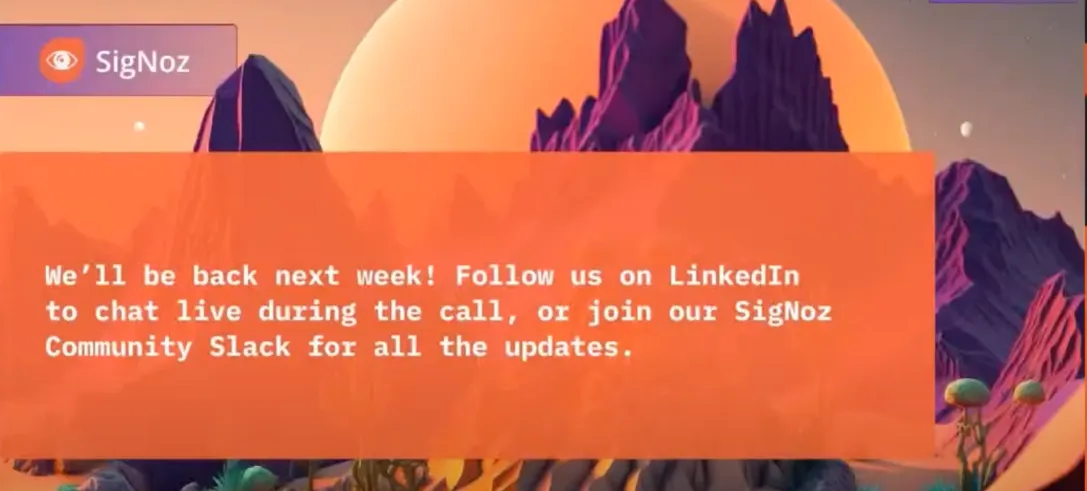
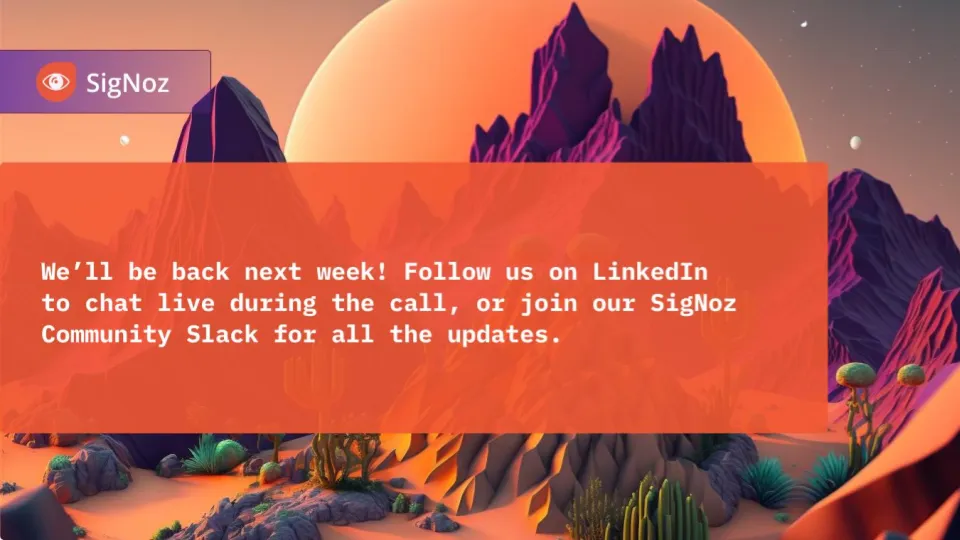
add getting-started-with-otel transcript (#1043)
* add getting-started-with-otel transcript

* add cover

diff --git a/blog/2023-08-19-getting-started-with-opentelemetry.md b/blog/2023-08-19-getting-started-with-opentelemetry.md
@@ -1,0 +1,349 @@
+---
+title: OpenTelemetry Webinars - Getting Started with OpenTelemetry
+slug: getting-started-with-opentelemetry
+date: 2023-08-19
+tags: [Talks, OpenTelemetry]
+authors: priyansh
+description: We often get asked, what's the best place to get started with OpenTelemetry - host metrics, traces, or even logs...
+image: /img/blog/2023/08/getting_started_with_opentelemetry_cover.jpg
+keywords:
+  - opentelemetry
+  - signoz
+  - observability
+---
+
+import { LiteYoutubeEmbed } from "react-lite-yt-embed";
+
+<head>
+  <link rel="canonical" href="https://signoz.io/blog/getting-started-with-opentelemetry/"/>
+</head>
+
+We often get asked, what's the best place to get started with OpenTelemetry - host metrics, traces, or even logs?
+
+Hosts <a href="https://github.com/serverless-mom" rel="nofollow">Nočnica Mellifera</a> and <a href="https://twitter.com/pranay01" rel="nofollow">Pranay</a> will talk about taking your first steps to gathering OpenTelemetry data
+
+
+Below is the recording and an edited transcript of the conversation.
+
+<!--truncate-->
+
+
+<LiteYoutubeEmbed id="Wzut0kjVeYI" mute={false} />
+
+<p>&nbsp;</p>
+
+*Find the conversation transcript below.👇*
+
+Nica: Good morning, everyone. This is the next in our OTel webinars. The topic for today is “Getting Started with OpenTelemetry”. A large audience for these webinars has been the SigNoz community, and this may be a little more basic than what the community needs.
+
+
+If you are already considering dashboards and how you store your data, this may not be the information you need. However, I am joined today by Pranay, co-founder of SigNoz. Pranay, what do you hope people will take away from this starter guide?
+
+Pranay: We decided to create this guide because we saw that many people in the SigNoz community already understand what OpenTelemetry is and have been using it. We also run an OpenTelemetry end-user group for the APAC region, and we see that many people have initial questions like, "How do I get started with OpenTelemetry? Is the log stable? How do I start sending my application tracing data?"
+
+These are the basic questions that any team needs to answer before investing in OpenTelemetry. So, we thought we would create a guide that covers some of the more basic topics so that people who are just starting out with OpenTelemetry can get an overview and a sense of where the project is headed. We will then go back to more technical questions in the future.
+
+We plan to alternate between more technical questions and more beginner-friendly ones so that people who are just starting out with OpenTelemetry have something to work with.
+
+
+Nica: It has been interesting for me to learn about the availability of beginner and advanced information for OpenTelemetry. OpenTelemetry is not intended as a beginner's tool, but rather as a tool for those who need to do distributed tracing through complex architectures. Since its inception, much of the material has started by diving deep into the topic.
+
+Speaking of more advanced topics, I wanted to answer a question that was asked in chat: "Hey, we talked about Kafka with OTel in the later webinar, when's that going to happen?" The webinar will be held next month because we are going away for our whole staff meeting. I will announce the date and time in the topic and message you directly when we are ready. We wanted to do it this week, but it turned out to require a little more research.
+
+I think I now know most of how to do it. I may or may not go and do all the work to set up a local Kafka queue to test it out, but that is a more advanced topic. I would love to talk about it, especially as it relates to sending OpenTelemetry data into a queue within your network.
+Nishant has just mentioned that the live webinar hours are not great for us, and we will be shifting those around a bit.
+
+Yes, I do want to make it possible for people from all over the world to join our webinars. I am located on the west coast of the United States, so this time slot is ideal for me. However, I may start offering an evening time slot in the future.
+
+Pranay: I believe that this webinar was primarily focused on our community in the US. We will explore options for India or the APAC region ecosystem in the future.
+
+Nica: If you are watching this webinar replay, please feel free to comment below with your questions. We will answer them as we go along. So, let's get started.
+
+So, a pretty common question that we see, especially people who are dipping into the OpenTelemetry, "What's the first thing that you should instrument withOpenTelemetry?" Now in my presentation, I have an answer to this, but I'm curious Pranay, how you would answer this question of what's the first thing you'd instrument?
+
+
+> “***A common question, especially among new DevOps engineers or SREs who want to add some observability: “What’s the first thing I should instrument with OpenTelemetry***”
+
+
+Pranay: Indeed, it depends on who is asking the question. For an application developer, the most interesting thing might be APM, or application performance monitoring. If you are writing code and want to understand whether your code is performing well or has high latency, you might start with APM or distributed tracing to see the latency of your APIs. Are your database calls or external calls taking longer than usual?
+
+However, if you are part of the platform team or DevOps team, the first thing you might want to look at is infrastructure metrics. These are the most important metrics to track, as they can tell you whether your machines are running smoothly and whether your CPU, memory, and other resources are being used efficiently.
+
+
+Configure some alerts on top of that, and so it depends really on the person who is trying to get started the OpenTelemetry. If you're a JavaScript developer, you can instrument your NodeJs application and just get started with the latency. 
+
+Nica: I concur. Indeed, there are people who are currently evaluating a full migration to OpenTelemetry. They are trying to determine whether it is better than the closed-source SaaS tool they are currently using. In this case, it may make sense to focus on the type of application performance metrics or APM that they will be getting. 
+
+It is important to answer this question early on, because if they are fundamentally unable to do their jobs without automatic instrumentation of a particular Java method, then this may be a deal-breaker for them.
+
+I think I'm going to briefly step through this just because it's kind of a basic idea of what is and isn't inside the OpenTelemetry project. 
+
+
+<figure data-zoomable align='center'>
+    <img src="/img/blog/2023/08/first_thing_otel.webp" alt=""/>
+    <figcaption><i></i></figcaption>
+</figure>
+
+<br></br>
+
+I recommend starting with infrastructure metrics if you want to understand the OpenTelemetry project. Do not start with Kubernetes by trying to spin up five namespaces that talk to each other through a synchronous data store. Instead, start with something that is easy to debug, easy to look at, and where data collection will work right off the bat.
+
+The OpenTelemetry collector is a good choice for this because it is well packaged and easy to run anywhere. It is also easy for the collector to gather basic host metrics, and the OpenTelemetry operator can grab a bunch of info metrics off of your cluster easily.
+In short, start with something simple and easy to manage, and then work your way up to more complex systems.
+
+I also appreciate these metrics because the purpose of these metrics is obvious when thinking about them. This may seem like a basic concept, but I believe it is worth discussing that, when considering something like a CPU, all of the OpenTelemetry processor steps are easy to understand.
+
+Why do we do things a certain way? Do we want to average across? Do we want to report every X number of cycles? Do we want to average across that cycle, or do we want to report each time we have a report within there? Do we want to add up that value or not?
+
+It is easy to see that we do not want to add up the amount of RAM that we are using. However, we will be able to solve some basic questions. One thing that I have seen is that even trying to make those very basic dashboards make sense and be useful in the long term is a challenge in itself.
+
+
+
+I have observed that some people have expressed concern about setting up alerts for memory usage when they upgrade their memory later. They worry that they will start receiving alerts when they are only using 50% of their memory, simply because they have allocated more memory.
+
+This should encourage you to think carefully about all the steps involved in gathering metrics and sending them out. It is worth taking the time to do this properly.
+
+<figure data-zoomable align='center'>
+    <img src="/img/blog/2023/08/send_data_otel.webp" alt=""/>
+    <figcaption><i></i></figcaption>
+</figure>
+
+<br></br>
+
+Once we have collected the data, we need to decide where to send it. This is where I would like to discuss what is and is not included in the OpenTelemetry project.
+
+I believe that even for those of us who are already using OpenTelemetry, it would be beneficial to review what is and is not included in the project. Pranay, did you have anything to add about gathering information metrics or things that people should think about on day one or day two?
+
+Pranay: Yes, I think a general piece of advice is that if you are starting to use a new project or tool, the easiest way to get started is often the right way. You can start with the basics, such as understanding what the project does. This is very easy to do, and once you have done that, you will start to see some of your data in a dashboard. This will give you more confidence.
+
+So I think what you said was very accurate, that you should start with infrastructure metrics. This is easy to do, most people know how to do it, and by playing around with it, you will learn some of the OpenTelemetry ecosystem. You will also have some success under your belt, so you can say, "Okay, I know how to configure infrastructure metrics, now let's move on to application metrics."
+
+
+Nica: I am tempted to open up the collector diagrams from our previous webinar to illustrate a point. I have seen people dive in and grab the SDK, only to realize that the SDK allows them to feed in the endpoint they are sending each metric call to directly. They then drop lines into their Java code to send the data across the wire and hard-code the URL of where they want to pick up the OpenTelemetry data. 
+
+This does not make a lot of sense. It would be much better to have a collector running within the pod, within that architecture, that would then send on the data.
+
+
+It is not necessary to send a web request every time a metric increments. It is acceptable to have blind alleys and say, "We pursued this for a little while, but it turned out not to be the right way to do it."
+
+However, I believe that this is another reason why I encourage thinking about host metrics or info metrics first. This will allow you to establish the collector and ensure that it can send data to whatever kind of data backend you want to set up. Then, when you instrument your application code, you will simply be talking to the collector that you have already set up. This is much easier.
+
+
+<figure data-zoomable align='center'>
+    <img src="/img/blog/2023/08/what_is_Otel.webp" alt=""/>
+    <figcaption><i></i></figcaption>
+</figure>
+
+<br></br>
+
+
+OpenTelemetry is a project that provides:
+- A specification for all components, including a standard protocol that defines the shape of telemetry data and semantic conventions that define the standard naming scheme for common telemetry data types. For example, the naming standard would specify whether duration is labeled in nanoseconds or microseconds.
+- APIs that define how to generate telemetry data. These APIs would allow developers to send telemetry data to the Collector.
+- A library ecosystem that implements instrumentation for common libraries and frameworks. This is critical, as it allows developers to instrument their applications without having to write their own instrumentation code.
+OpenTelemetry is not a tool or a framework. It is a project that provides the building blocks for other tools and frameworks.
+
+So, that’s better and worse in different languages I won't even say better and worse, it is more and less automatic in different frameworks, and that's usually pretty rational to how those frameworks work, right?  Java is notoriously very easy to automatically instrument because you can do it at build time and bytecode manipulation to do this kind of stuff. 
+
+And then others are more difficult.  Automatic instrumentation components that generate Telemetry data without requiring code changes. 
+
+What is a set of libraries to say, "Hey, you can just make a call right from your Ruby code or right from your Java code” to say “I want to send this metric, I want to log this line, I want to add this span to a trace." But then also want automatic instrumentation and then language SDKs implement the specification APIs and the export of telemetry data. 
+
+So these are kind of a Troika there and then The OpenTelemetry collector, a proxy that receives processes, and exports telemetry data. So a question I used to get all the time is, "Can we do this without the collector?" And the answer is, technically yes, but you're hurting me by doing this. You're causing me harm, and that's kind of what I was referring to as generally a process with no collector or with a collector. 
+
+You know,  just the SigNoz collector or just telemetry hub's collector or just the honeycomb collector, but you're sending data straight out from your code, that nobody's gonna tell you to do that. 
+
+So, it's okay for your tests on your Dev environment, and then Various other tools such as the OpenTelemetry operator for Kubernetes. That's the list of what is inside the project. I think it's interesting that auto instrumentation is inside the project, but data backends, as we're going to talk about, are not inside the project.
+
+Pranay: Yeah, I think one of the core parts here is defining the specs and the APIs. So that's an independent part of what the project defines, and then it also provides an SDK, which sort of implements it. 
+
+So that you can get started very quickly, and they have, by default, auto instrumentation components so that you don't have to worry too much about “Are you instrumenting the right libraries, or are instrumenting the right frameworks”
+
+You install that auto instrumentation SDK, and then it will automatically detect the libraries for which there's OpenTelemetry instrumentation available and then install those libraries. That's, I think, pretty powerful. 
+
+Primarily if you look into OpenTelemetry, it's got two parts. One is specs and APIs to send data, and the second part is the OpenTelemetry collector. So broadly speaking, these are the two big pieces, and in the specs and APIs to send data, there are multiple languages and frameworks, which implement each language. So that's how broadly how I see the scope for OpenTelemetry.
+
+Yeah, absolutely. And so if you're having trouble sending data from your language, that is something that should be handled within the project. And in general, all the way out to REST, in terms of obscurity, not the REST obscure, REST is great, we love you so much, REST. But you know, this is covered, the sending of data, "Hey, I want to go in and edit my code and send application data," is covered. 
+
+I will be curious, I don't know about auto instrumentation in REST projects, but you know, certainly that level of, "Hey, I can make calls right from my code where I'm not having to go to negotiate an HTTP connection to send my metrics data," that should all be handled.
+
+Okay, so this gets me to this slide about “Then you need to send your data somewhere”. So that's, I think, the thing that stands out as being outside of the project and is actually on that page, is the next thing, it's, "Hey, how the data is stored, particularly and how it's presented to you”, are not part of the project. So, you know, a counter-example is Jaeger, which covers things end to end. 
+
+So it's, "Oh, you can run a Jaeger server which will store data, which will present those traces to you." But again, that's very tracing-specific. It's not necessarily for all types of data, but yeah, that's a different project's spec.
+
+
+<figure data-zoomable align='center'>
+    <img src="/img/blog/2023/08/otel_basics.webp" alt=""/>
+    <figcaption><i></i></figcaption>
+</figure>
+
+<br></br>
+
+So here we go with that conceptualization. This is from last week's webinar to think about “What is part of the OpenTelemetry collector?” Where you say, "Hey, it's doing these three steps to your data, but they're still going to need some kind of storage background and also some kind of query and visualization thing. 
+
+The big one is these three steps. Let's talk about that for sure. 
+
+Receivers, which is the ability to pick up data, let's put it into the OpenTelemetry collector. There's a big project around that. We'll talk about that more in a minute. 
+
+Processors are a few things at a basic level, compression and batching of data, but also things, "Hey, I want to pull out personally identifying data, I want to normalize, I have two services; they're implemented a little differently, I want to normalize that data a little bit." Things like parsing, where you have unstructured logs; you want to do some parsing of that data before you send it on. 
+
+And then finally, the exporter is, "Where's it gonna go?" Which can be very simple. It could be just, "Hey, that's just going to go right into another OpenTelemetry collector or a sort of OpenTelemetry ecosystem." 
+
+But obviously, the closed-source boys are still out there. The SaaS people are still out there, and so they have their exporters and you absolutely can say, "Hey, I have a great experience with collecting this data, but I love this existing SaaS tool so much," and they will certainly accept that data from you. And there's pretty broad acceptance of that. I would say, where's the export? You can't do it. 
+
+My understanding is that you can't move your distributed trace into AWS X-Ray, for example, into some of the cloud-specific monitoring tools. But that limitation probably would make some sense. Obviously, for any large observability platform, those exporters exist. 
+
+Pranay: I'm also not sure. I think the key point here is that some things are not part of the OpenTelemetry project. For example, the visualization layer, alerts, setting dashboards, setting retention policies, and for that, you use a backend like SigNoz or any other SaaS vendors or tools like Grafana, etc.
+
+Some of the time I see people getting confused, "Hey if I use OpenTelemetry, do I also share dashboards?" So that's not really in the scope of the project.
+
+Nica: And so, we don't cover very much in this talk, but, while it's very straightforward to use a tool SigNoz or Prometheus or Grafana, to do a basic dashboard and say, "Hey, I'm going to track the CPU metrics," it's a good place to start. 
+
+I think we can all understand that then you get to more advanced cases, and you're gonna want to evaluate a tool or two, right? To look at, does it give me the data that I need? What are we using from our observability tools now, and where do we want that to go? 
+
+
+<figure data-zoomable align='center'>
+    <img src="/img/blog/2023/08/log_otel.webp" alt=""/>
+    <figcaption><i></i></figcaption>
+</figure>
+
+<br></br>
+
+
+Once you're collecting these hosted infrastructure metrics, a good second step is thinking about logging.
+
+And again you can have your path through here, but just it's worth considering, thinking about how we're handling logging. It should be pretty doable as a project, and you can also use some of that collector power to do some of your log parsing which might improve your experience a little bit.
+
+<figure data-zoomable align='center'>
+    <img src="/img/blog/2023/08/status_and_releases.webp" alt=""/>
+    <figcaption><i></i></figcaption>
+</figure>
+
+<br></br>
+
+Now I want to make one note here. This is my first big mistake when I started writing about OpenTelemetry about three and a half years ago. I'm not sure the exact time that was, but I said, "Well, you might not want to do this because logs are not yet implemented." And I think I saw just as this is the current version of the status chart and "Oh, and metrics are not implemented,  Ruby's not ready for Prime Time. 
+
+The metric situation is a little complicated on Ruby, and I'm not good to speak to that, but the logs are what we're talking about here because this sort of makes it look as if you have Ruby or you're on Rust or what have you, that you have no support for sending in your logs to this OpenTelemetry endpoint. 
+
+But that's probably not the case, right? So, the issue here is we’d like to have full SDK support within each of these frameworks, to be able to say, "Okay, from the start, I'm going to do OpenTelemetry logging, so I'm going to install the Ruby OpenTelemetry SDK and make a call to that SDK every time I want a log", which would be rad, and I agree, we'd to see that implemented. 
+
+But you are already sending your logs somewhere. I hope your logs are not just getting dumped into the console and killing your instance. So, given that you've already done that work, again, there's that thing with the collector, right? That it has its ways to import data. It has multiple projects to import data. If you look at the contrib repo for the OpenTelemetry collector, you can look at these receivers. 
+
+Link - https://github.com/open-telemetry/opentelemetry-collector-contrib/tree/main/receiver
+
+There are tons for whatever logging tool that you may wish. So, the point is that if you are sending logs currently by some method, there's the free level of Splunk that sends logs, and there's absolutely a way to grab those logs and it's supported by Splunk. 
+
+They're, "Hey, you can send these logs anywhere”. Of course, you can send them to the OpenTelemetry collector. 
+
+Pranay: I think the two modes of sending logs are always available. One is writing something in a file and then reading from those files. So, there's a file log receiver in OpenTelemetry, which you can always use. 
+
+OpenTelemetry also supports these log collectors, for example, I think they support FluentD, Fluent Bit, and Logstash. So, if you already have a pipeline set up with any of these three log collectors, you can configure the OpenTelemetry collector to get logs from there. 
+
+You don't have to do any work, you just can start configuring whatever is configured in your log collector, so you can just start sending that data to the OpenTelemetry collector. 
+
+So, Nica was pointing out that OpenTelemetry official site lists as logs are not implemented, saying “Is there a Ruby SDK to send logs directly?” But as you know, there are other ways to send logs. 
+
+
+
+Nica: It is crucial to be aware that there are more options available than simply using the SDK. It is very likely that you already have some kind of logs exported. If you do not, and you are starting from scratch, doing this as a student, or your observability efforts are a bit of a technical debt, you can absolutely do it. You can write your logs to a file, read from them, batch them with the collector, and send them out. 
+
+However, you are probably already sending logs somewhere, and you should be able to leverage that. 
+Conceptually, the goal of OpenTelemetry is to provide a unified way to collect and export telemetry data, regardless of the source. This means that you should be able to use OpenTelemetry to collect logs from any source, even if it is not currently supported by the SDK.
+
+Pranay: There's a question
+
+Can you say that it's another SIEM tool alternative to Splunk?
+
+Nica: I do not know the definition of SIEM, so now I want to know that. 
+
+Pranay: I'm going to take this up. 
+
+Nica: Security Information and Event Management. Go ahead.
+
+Pranay: OpenTelemetry is not primarily focused on security. Splunk, for example, has an observability product and a security product. However, OpenTelemetry's primary focus is on observability, which is ensuring that production systems are running smoothly and debugging issues quickly.
+
+The data that OpenTelemetry SDKs send, such as tracing data, can be used for more advanced security analysis. For example, if you see a certain type of payload in trace data, you can analyze it to determine if it is a security vulnerability.
+
+The data is there, but the project is not currently focused on security use cases. The vendors are also more focused on observability. Therefore, OpenTelemetry is not currently suitable for security use cases.
+
+
+Nica: Yeah, I would say, in terms of just using the OpenTelemetry project to do a ton of security, you're not gonna have some of the things you would expect as you have in a basic security tool. 
+
+I just wanted to point out this talk from Ron Vider at Oxeye, who is using OpenTelemetry to do security monitoring, and there are some other examples out there.
+
+Talk link - https://www.youtube.com/watch?v=hz3ncpPKzUs 
+
+The OpenTelemetry community is doing very innovative work with context propagation. Many of these tools also work with other context propagation tools, such as Jaeger. These are interesting use cases that are not part of the core OpenTelemetry project. 
+
+If you join the CNCF Slack or the SigNoz Slack or other communities where OpenTelemetry is discussed, security is not likely to be the first topic of conversation. However, it is an important consideration.
+
+
+<figure data-zoomable align='center'>
+    <img src="/img/blog/2023/08/logging_with_otel.webp" alt=""/>
+    <figcaption><i></i></figcaption>
+</figure>
+
+<br></br>
+
+That's a great question. Thank you so much. 
+
+*Unfortunately, existing logging solutions are currently weakly integrated with the rest of observability. SigNoz logs typically have limited support in tracing and monitoring tools in the form of links that use available and often incomplete correlation information. This correlation may be fragile because the attributes are often added to logs, traces, or metrics via different means, e.g. using different collector agents.* 
+
+The current state of logging is discussed in this section. It is noted that the current state is rather basic, and that there is no need to go into every step of the chart. However, the idea is that it would be beneficial to have a more cohesive solution for tagging all of the parameters on logs. 
+
+This would allow for logs that are not just structured, but that are also implicitly connected to both the time spans of tracing and the metrics that are being gathered. In other words, consistent naming and consistent structure of event data would be desirable.
+
+And so, this is a little bit of vision for the future and also why it may make sense, even if you're doing a little bit of work right now for logging that feels almost the repetition of what you've done before, connecting a logging tool. It may make sense to be thinking about OpenTelemetry in the future.
+
+Pranay: I would like to add that it is now possible to add log data to traces. While the other way around is not as simple, it is still possible to add trace data to logs. We recently shipped a feature in SigNoz that allows you to view related logs on a trace page. 
+
+This is possible because if you pass the context of the log to the trace, you can determine which logs were emitted during the request propagation of the trace. This information can be viewed by simply clicking a link.
+
+I encourage you to check out this feature in SigNoz. I believe that the project is headed in a positive direction because it has defined a uniform resource layer and a concept of baggage, which allows for context propagation across signals, metrics, traces, and logs.
+
+I believe that the project is headed in a direction where it will be able to correlate metrics, traces, and logs much more deeply. One way that this can be achieved is through the use of resources.
+
+Nica, this would be a good topic for you to discuss, as you are familiar with how resources work in OpenTelemetry.
+
+
+I think any OpenTelemetry native tools like SigNoz, will be leveraging those features to make this much easier, correlation across SigNoz. 
+
+Nica: I believe the fundamental challenge is in connecting the dots when someone says, "We gather or show you OpenTelemetry data." There should be a clean, correlated telemetry signal. However, this is a difficult task.
+
+I want to remain unbiased in this discussion. SigNoz does not have a monopoly on a good way to do this. However, I believe it is important to be aware that some very large, very expensive SaaS tools are not OpenTelemetry. I am willing to be biased in favor of the OpenTelemetry project because these tools struggle with this.
+
+This is not a solved problem. Someone can say to you, "Single pane of glass," and charge you ten thousand dollars a month for SaaS tools, and then say, "Well, if your logs are connected, they'll show up here for your trace, right?"
+
+But will they be connected every time? No, sometimes the logs will be connected correctly, but not always. So, I think that's just something to be aware of.
+
+
+And so, yeah, thinking about distributed tracing and context propagation across that stack, we got there to talk about a little bit. But yeah, that's something to be talking about coming soon in future webinars.
+
+<figure data-zoomable align='center'>
+    <img src="/img/blog/2023/08/follow_us_poster.webp" alt=""/>
+    <figcaption><i></i></figcaption>
+</figure>
+
+<br></br>
+
+Pranay: In our previous discussion, we thought that a webinar on Kafka could focus on sources, context propagation, and correlation.
+
+Nica: It would be interesting to discuss what context propagation enables. The starter is saying that it enables you to connect your logs across the stack and know when a trace occurred, which is especially important for getting accurate information and connecting it to other data.
+
+
+I agree with what they mentioned in the write-up. It would be worth discussing this topic in a future webinar. There is a lot to talk about with OpenTelemetry, and it is new territory for many people, which we find exciting.
+
+Okay folks, please follow our channel if you would like to see more of our content. If you are watching this on replay, we would like to thank you for watching the previous episode. Many of you did, and we appreciate your support.
+
+Please feel free to leave a question in the comments below. We will get back to you and answer all of them. Thank you so much for joining us, and we hope to see you again soon.
+
+Pranay: Thanks for joining. Goodbye.
+
+
+---
+
+Thank you for taking out the time to read this transcript :) If you have any feedback or want any changes to the format, please create an <a href = "https://github.com/SigNoz/signoz/issues" rel="noopener noreferrer nofollow" target="_blank" >issue</a>
+
+Feel free to join our Slack community and say hi! 👋 
+
+[![SigNoz Slack community](/img/blog/common/join_slack_cta.png)](https://signoz.io/slack)
